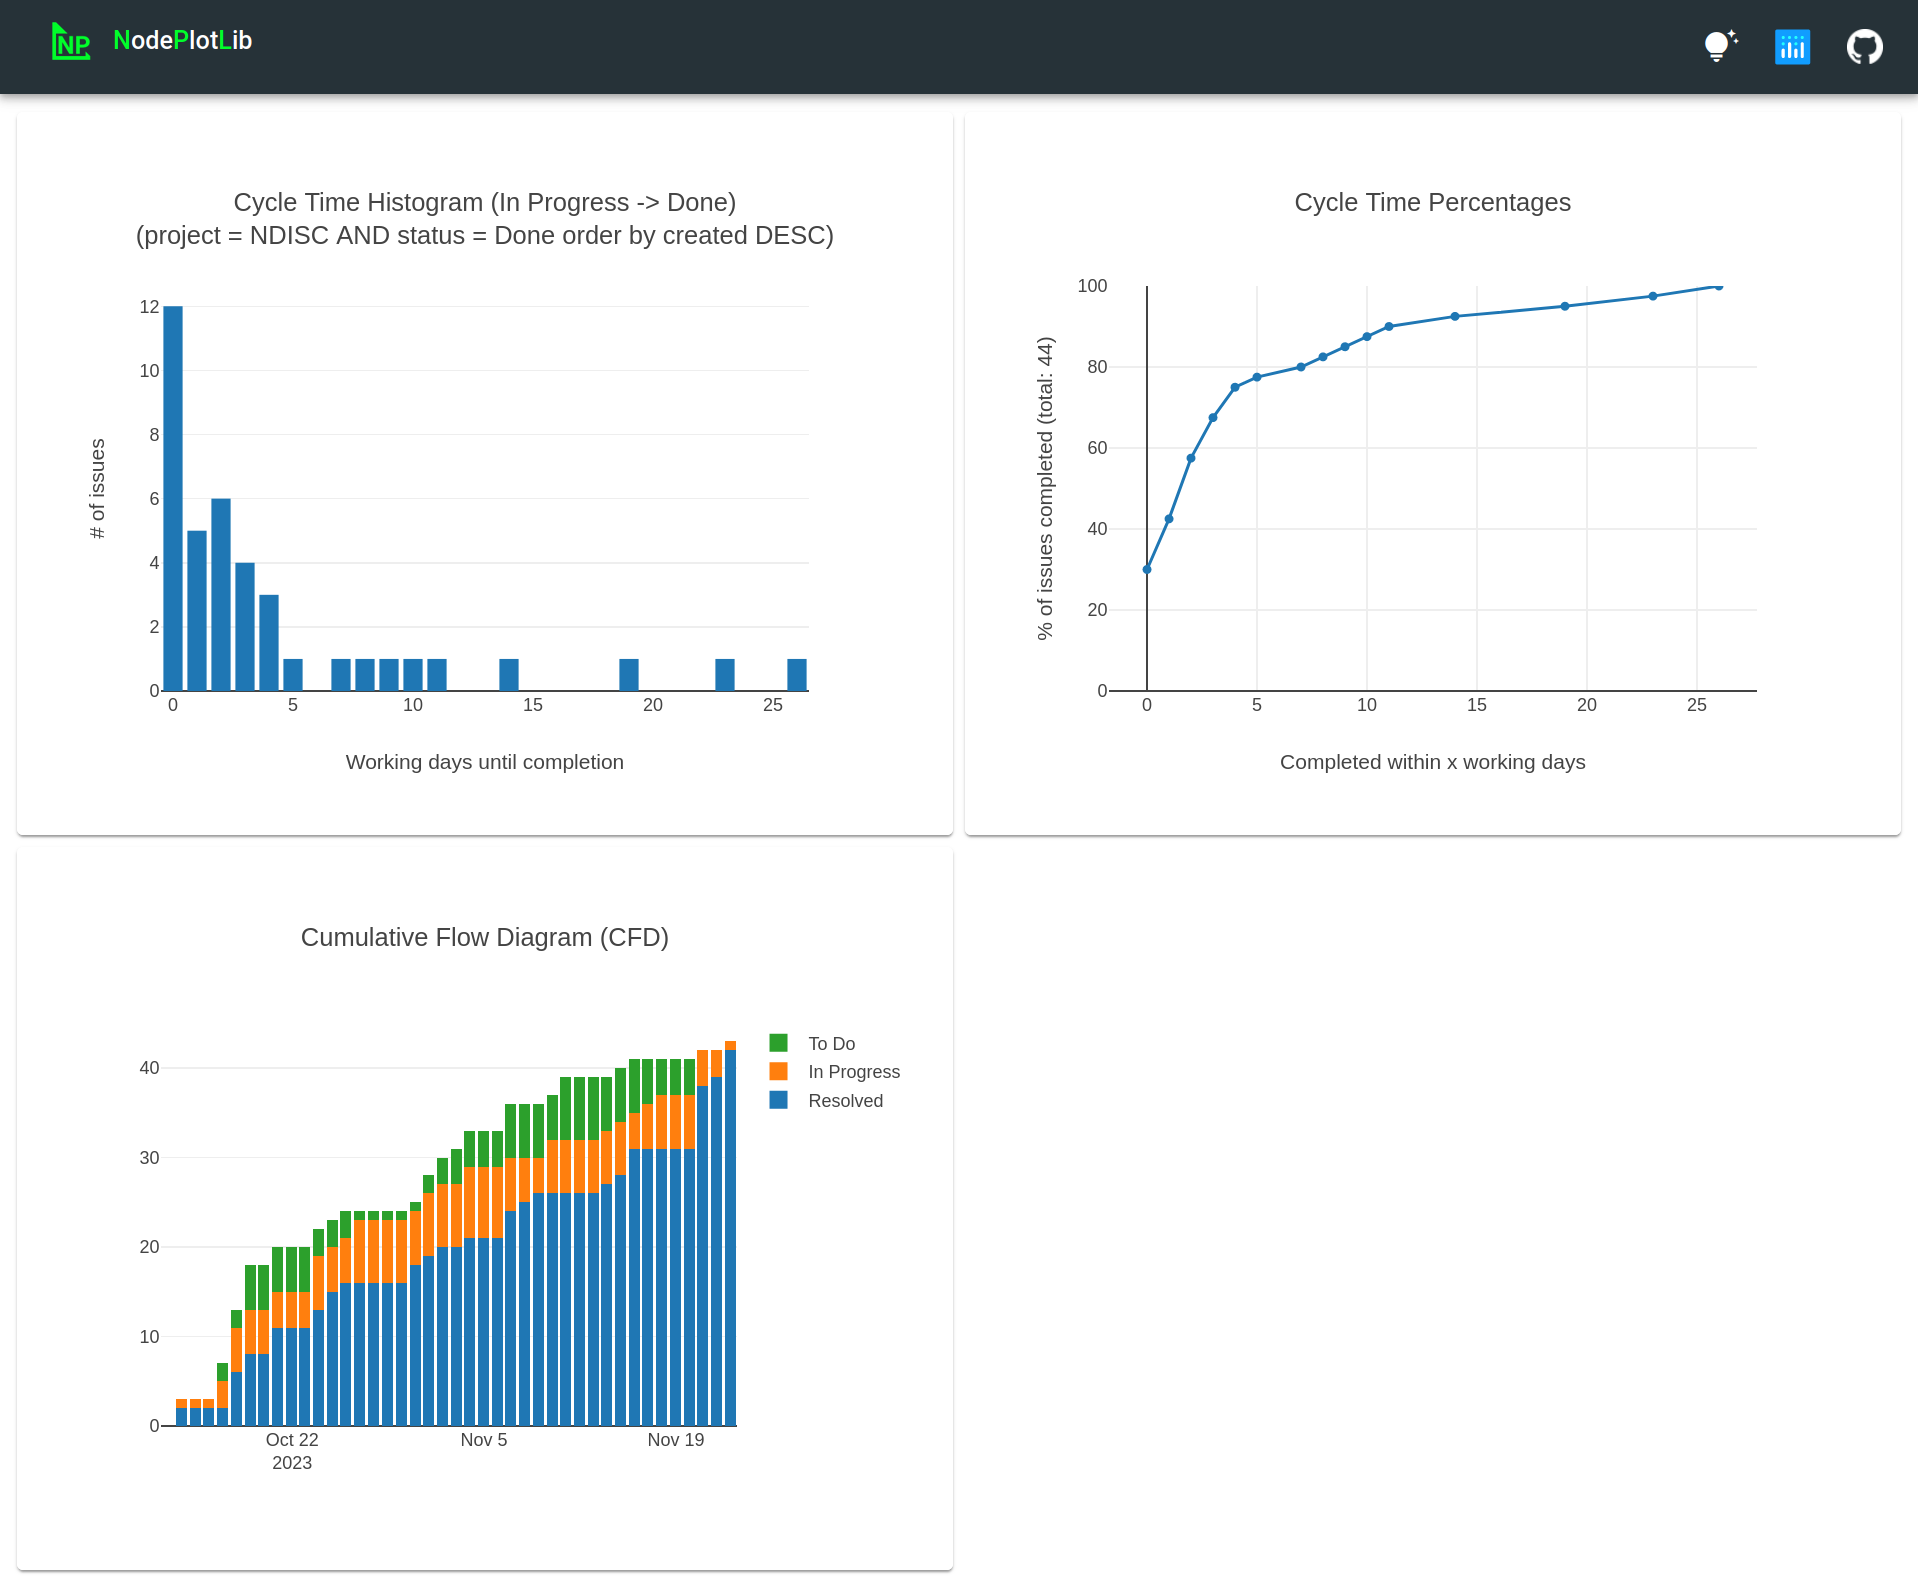
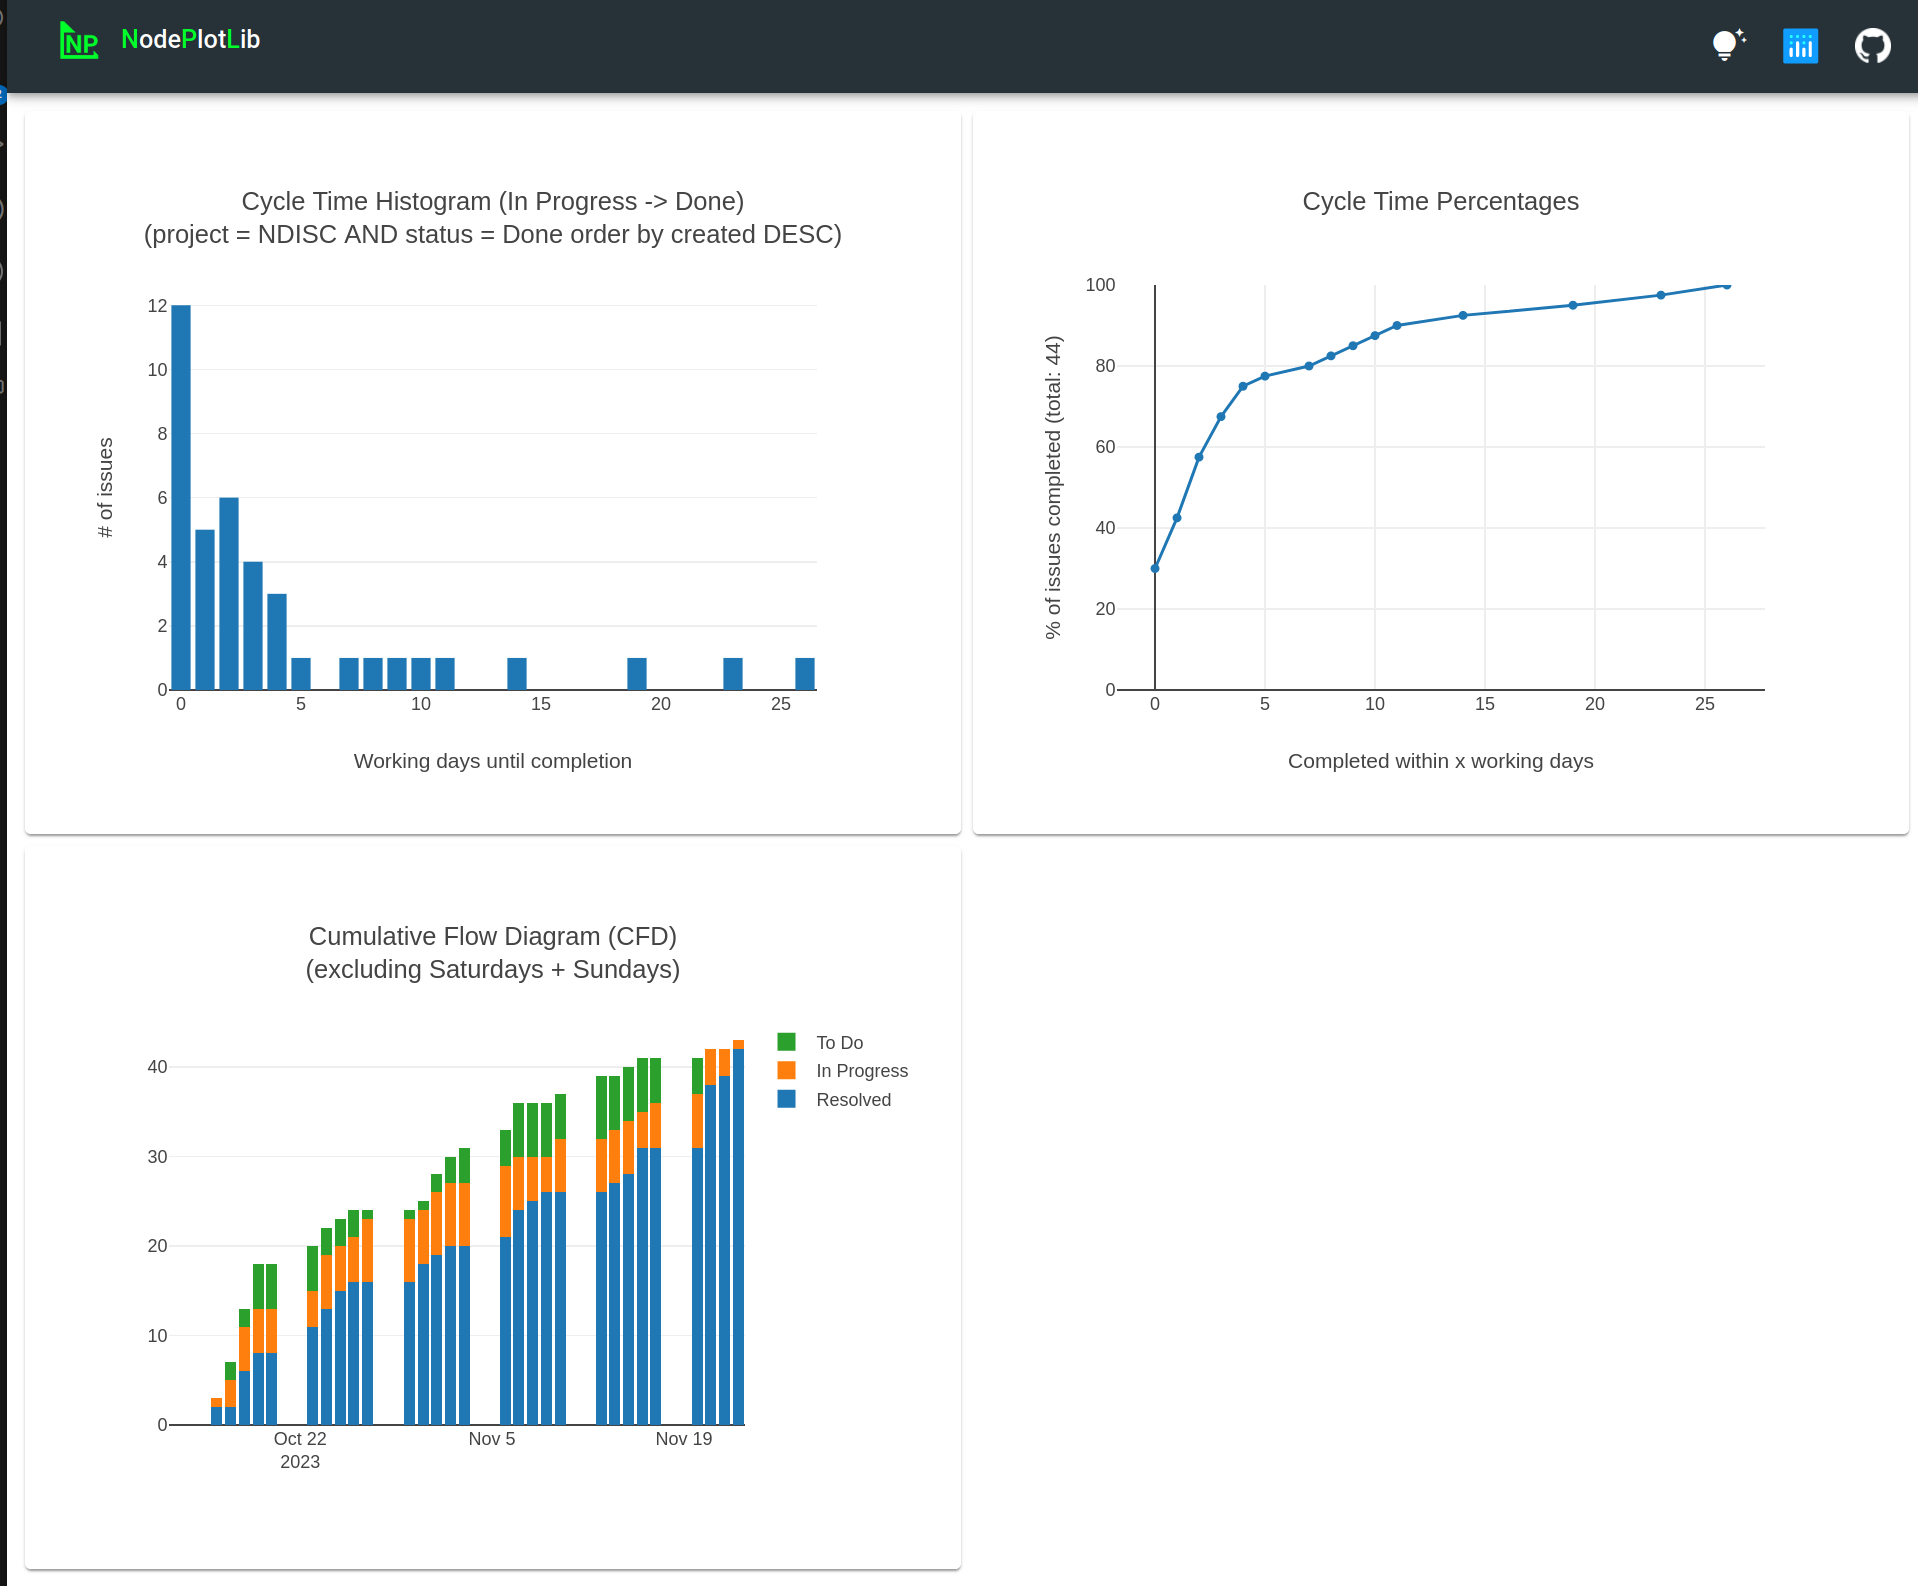
Remove Saturdays/Sundays from CFD

diff --git a/index.ts b/index.ts
@@ -122,7 +122,7 @@ const percentagesLayout: Layout = {
 
 const cfdLayout: Layout = {
     barmode: "stack",
-    title: "Cumulative Flow Diagram (CFD)"
+    title: "Cumulative Flow Diagram (CFD)<br>(excluding Saturdays + Sundays)",
 }
 
 plot([histogramPlot], histogramLayout)

diff --git a/README.md b/README.md
@@ -22,9 +22,8 @@ Get more info about the flow of work in a Jira Cloud project.
 ✅ Display the cycle time percentages graph <br>
 ✅ Calculate data for a Cumulative Flow Diagram (CFD) <br>
 ✅ Display a Cumulative Flow Diagram <br>
-❌ Configure states for CFD via env vars
-❌ Remove weekends from CFD
-
+❌ Configure states for CFD via env vars <br>
+✅ Remove weekends from CFD
 
 # Running / Dev
 
